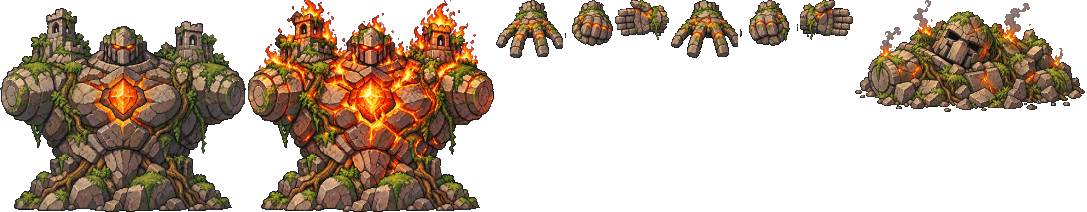
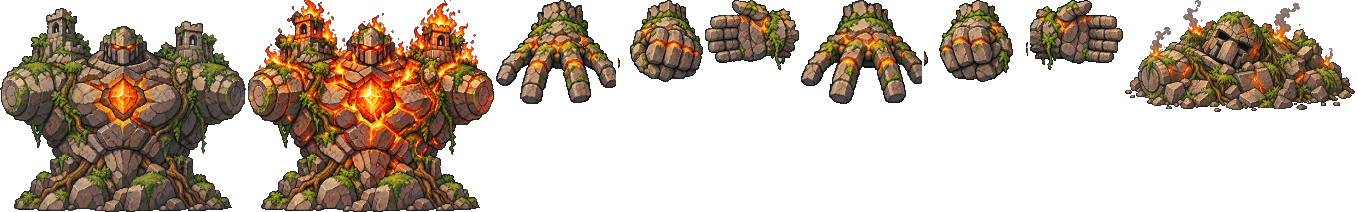
거대 골렘 손 크기 대폭 확대 (펼친 손 104px), 공격 범위·발판·연출도 맞춰 키움
Claude-Session: https://claude.ai/code/session_01CPuQwRxjahy2BkbhjWZhoU

diff --git a/art/boss1/giant_cut.py b/art/boss1/giant_cut.py
@@ -16,7 +16,7 @@ a, m = load("hands_source.jpg"); H, W = m.shape
 for i, nm in enumerate(["R_open", "R_fist", "R_side", "L_open", "L_fist", "L_side"]):
     r, c = divmod(i, 3); s = (slice(r * H // 2, (r + 1) * H // 2), slice(c * W // 3, (c + 1) * W // 3)); sub = m[s]
     lb, n = ndimage.label(sub); sz = ndimage.sum(sub, lb, range(1, n + 1)); sub = np.isin(lb, [j + 1 for j, v in enumerate(sz) if v > 300])
-    p = rgba(a[s], sub); p = p.crop(p.getbbox()); h = 58 if "open" in nm else 46 if "fist" in nm else 40
+    p = rgba(a[s], sub); p = p.crop(p.getbbox()); h = 104 if "open" in nm else 82 if "fist" in nm else 70   # 손은 크게 (보이드의 3배 넘게)
     parts[nm] = hard(p.resize((round(p.width * h / p.height), h), Image.BOX))
 a, m = load("rubble_source.jpg"); p = rgba(a, m); p = p.crop(p.getbbox()); parts["rubble"] = hard(p.resize((230, round(p.height * 230 / p.width)), Image.BOX))
 Wt = sum(p.width + 2 for p in parts.values()); Ht = max(p.height for p in parts.values()); at = Image.new("RGBA", (Wt, Ht)); x = 0
